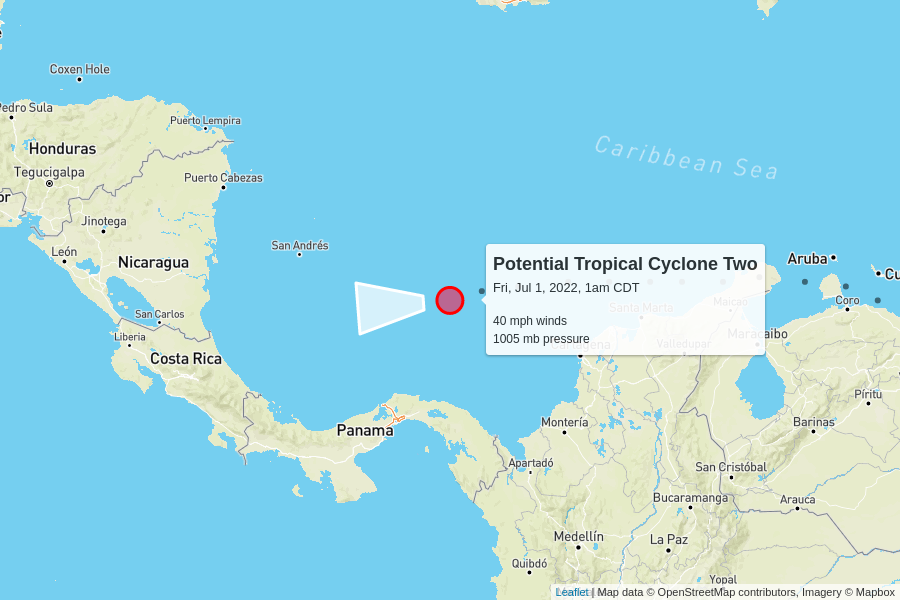
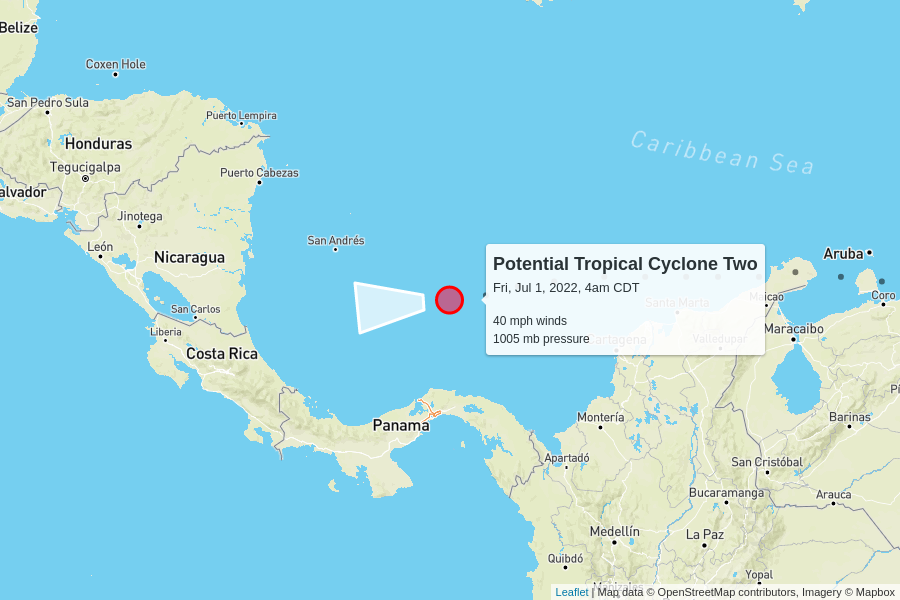
automatic update

diff --git a/docs/index.html b/docs/index.html
@@ -100,7 +100,7 @@
         <td colspan="6" class="storm category-0" >
           <h2>
             Potential Tropical Cyclone Two
-            <p class="updated">last updated <span data-time>2022-07-01T06:00:00.000Z</span></p>
+            <p class="updated">last updated <span data-time>2022-07-01T09:00:00.000Z</span></p>
           </h2>
         </td>
       </tr>
@@ -118,7 +118,7 @@
         <td>40 mph</td>
         <td>1005 mb</td>
         <td>
-          20 mph to the west
+          18 mph to the west
           <br/>
           <span style="display: inline-block; font-size: 1.5em; transform: rotate(265deg);">↑</span>
         </td>
